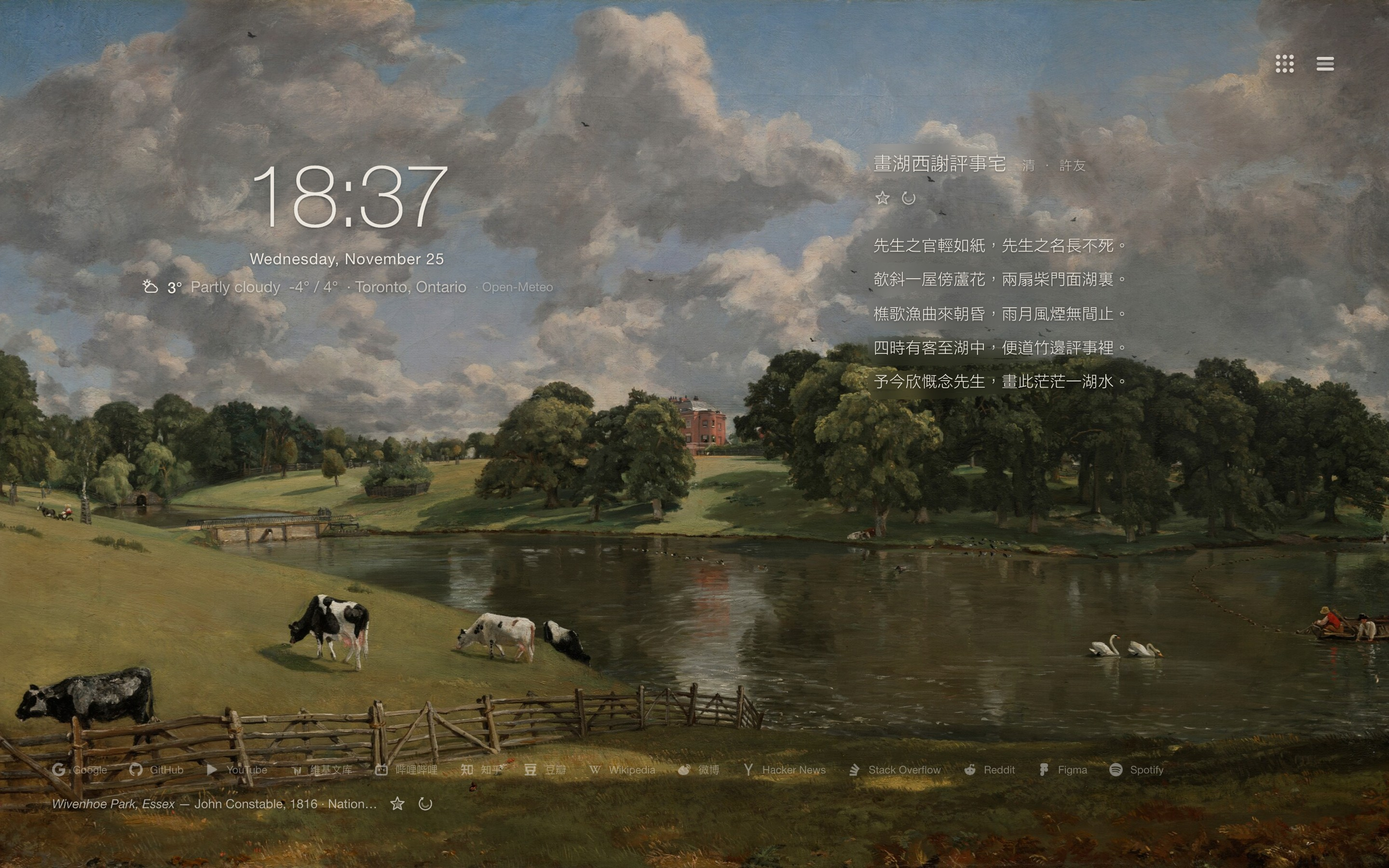
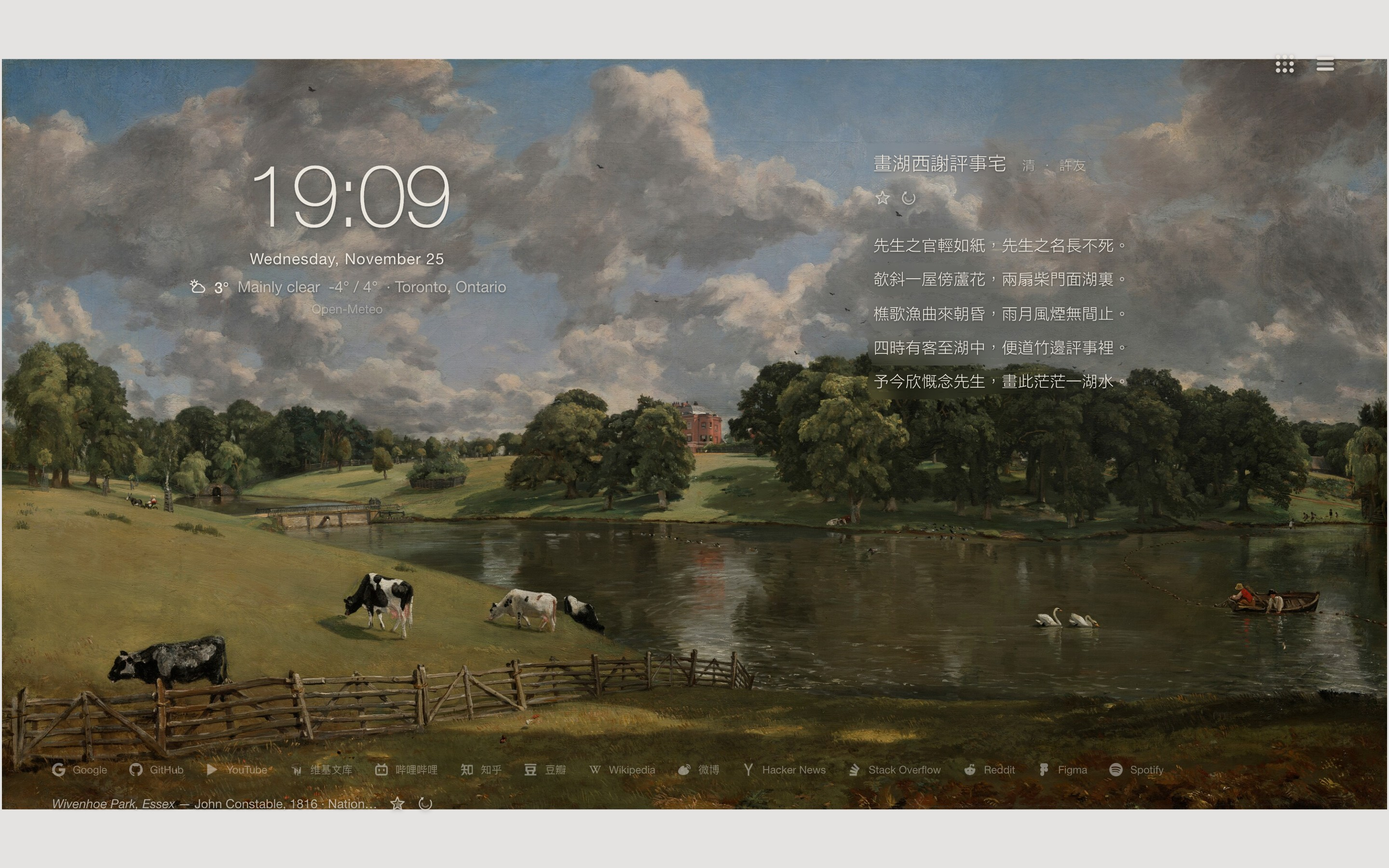
Show the wallpaper whole at screen size, keep favorites in one English folder, and simplify the weather line

diff --git a/newtab.js b/newtab.js
@@ -24,7 +24,7 @@ const I18N = {
     countries: { US: '美国', FR: '法国', IT: '意大利', NL: '荷兰', GB: '英国', FL: '佛兰德', ES: '西班牙', DE: '德国',
       AT: '奥地利', JP: '日本', CN: '中国', IN: '印度', KR: '朝鲜半岛', OTHER: '其他' },
     weatherLabel: '天气，点一下打开设置', noCity: '点这里填城市，显示天气',
-    minsAgo: (place, m) => `${place} · ${m} 分钟前`, weatherFailed: (msg) => `天气取不到：${msg}，刷新页面再试`,
+    weatherFailed: (msg) => `天气取不到：${msg}，刷新页面再试`,
     wTimeout: '天气服务 10 秒没有响应', wOffline: '连不上天气服务（没联网？）', wHttp: (s) => `天气服务返回 HTTP ${s}`,
     looking: '正在查找……', notFound: (name) => `找不到「${name}」，换个写法试试`, tryLater: (msg) => `${msg}，稍后再试`,
     museums: { aic: '芝加哥艺术博物馆', cma: '克利夫兰艺术博物馆', nga: '华盛顿国家美术馆' },
@@ -39,7 +39,7 @@ const I18N = {
     wsError: (info) => `维基文库报错：${info}`,
     favAdd: (art) => (art ? '收藏这幅画' : '收藏这一篇'), favRemove: (art) => (art ? '取消收藏这幅画' : '取消收藏这一篇'),
     favFailed: (why) => `没有存成：${why}。再点一次星号重试。`,
-    favFolder: '新标签页收藏', favPoems: '诗文', favArt: '画作', anonymous: '佚名', untitled: '未命名',
+    anonymous: '佚名', untitled: '未命名',
     line: (label, value) => `${label}：${value}`, source: '原文', image: '图片', savedOn: (d) => `收藏于 ${d}`,
     dlTimeout: '下载两分钟还没完成，网络可能太慢', dlNoSpace: '磁盘空间不够', dlFile: (c) => `文件写不进「下载」文件夹（${c}）`,
     dlNetwork: (c) => `下载时网络出错，可能是没联网（${c}）`, dlServer: (c) => `博物馆的图片服务器出错（${c}）`,
@@ -55,7 +55,7 @@ const I18N = {
     countries: { US: 'United States', FR: 'France', IT: 'Italy', NL: 'Netherlands', GB: 'Britain', FL: 'Flanders',
       ES: 'Spain', DE: 'Germany', AT: 'Austria', JP: 'Japan', CN: 'China', IN: 'India', KR: 'Korea', OTHER: 'Other' },
     weatherLabel: 'Weather; click to open the settings', noCity: 'Click here to set a city for the weather',
-    minsAgo: (place, m) => `${place} · ${m} min ago`, weatherFailed: (msg) => `No weather: ${msg}. Reload to try again.`,
+    weatherFailed: (msg) => `No weather: ${msg}. Reload to try again.`,
     wTimeout: 'The weather service did not answer in 10 seconds', wOffline: 'Cannot reach the weather service (offline?)',
     wHttp: (s) => `The weather service returned HTTP ${s}`,
     looking: 'Looking up…', notFound: (name) => `No place called “${name}”; try another spelling`,
@@ -74,7 +74,7 @@ const I18N = {
     favAdd: (art) => (art ? 'Save this painting' : 'Save this text'),
     favRemove: (art) => (art ? 'Remove this painting from favourites' : 'Remove this text from favourites'),
     favFailed: (why) => `Not saved: ${why}. Click the star to try again.`,
-    favFolder: 'New Tab Favorites', favPoems: 'Texts', favArt: 'Paintings', anonymous: 'Anonymous', untitled: 'Untitled',
+    anonymous: 'Anonymous', untitled: 'Untitled',
     line: (label, value) => `${label}: ${value}`, source: 'Source', image: 'Image', savedOn: (d) => `Saved on ${d}`,
     dlTimeout: 'the download did not finish in two minutes', dlNoSpace: 'the disk is full',
     dlFile: (c) => `the file could not be written to Downloads (${c})`, dlNetwork: (c) => `the network failed, maybe offline (${c})`,
@@ -344,8 +344,7 @@ async function loadWeather(force = false) {
     renderWeather(data, city);
   } catch (e) {
     console.warn('Weather failed:', e);
-    if (usable) $('#weather-city').textContent = t('minsAgo', placeName(city), Math.round((Date.now() - cached.at) / 60000));
-    else showWeatherText(t('weatherFailed', e.message));
+    if (!usable) showWeatherText(t('weatherFailed', e.message)); // otherwise the cached weather stays as it is
   }
 }
 
@@ -426,6 +425,7 @@ async function showNextArt() {
     }
     artShown = true;
     document.documentElement.style.setProperty('--art-url', `url("${img.currentSrc}")`); // background of both cards
+    fitArt();
     img.classList.add('shown');
     applyTones();
     rememberLoaded(trying);
@@ -890,21 +890,40 @@ function blockRects() {
   ];
 }
 
-// Mean luma of the painting (object-fit: cover, centred) under a viewport rectangle, on a 6 x 6 lattice.
+// The painting keeps the size it has on the whole screen, shown whole and centred: resizing the window shows more or
+// less of it instead of scaling it, and where it does not reach, the page colour (--page-bg) shows.
+function artBox(ratio) {
+  const [sw, sh] = [screen.width, screen.height];
+  return ratio > sw / sh ? [sw, sw / ratio] : [sh * ratio, sh];
+}
+
+function fitArt() {
+  if (!currentArt) return;
+  const [w, h] = artBox(currentArt.r);
+  document.documentElement.style.setProperty('--art-w', `${w}px`);
+  document.documentElement.style.setProperty('--art-h', `${h}px`);
+}
+
+const pageLuma = () => {
+  const [r, g, b] = getComputedStyle(document.body).backgroundColor.match(/\d+/g).map(Number);
+  return 0.299 * r + 0.587 * g + 0.114 * b;
+};
+
+// Mean luma under a viewport rectangle, on a 6 x 6 lattice: the painting where it is (centred, size from artBox),
+// the page colour elsewhere or when no painting is shown.
 function lumaUnder(rect, grid, ratio) {
-  const W = innerWidth;
-  const H = innerHeight;
-  const [iw, ih] = ratio > W / H ? [H * ratio, H] : [W, W / ratio];
-  const ox = (W - iw) / 2;
-  const oy = (H - ih) / 2;
+  const page = pageLuma();
+  if (!grid) return page * VEIL;
+  const [iw, ih] = artBox(ratio);
+  const ox = (innerWidth - iw) / 2;
+  const oy = (innerHeight - ih) / 2;
   let sum = 0;
   for (let i = 0; i < 6; i++) {
     for (let j = 0; j < 6; j++) {
-      const x = rect.left + (rect.right - rect.left) * (i + 0.5) / 6;
-      const y = rect.top + (rect.bottom - rect.top) * (j + 0.5) / 6;
-      const col = Math.min(GRID_W - 1, Math.max(0, Math.floor(((x - ox) / iw) * GRID_W)));
-      const row = Math.min(GRID_H - 1, Math.max(0, Math.floor(((y - oy) / ih) * GRID_H)));
-      sum += parseInt(grid[row * GRID_W + col], 16) * 16 + 8;
+      const u = (rect.left + (rect.right - rect.left) * (i + 0.5) / 6 - ox) / iw;
+      const v = (rect.top + (rect.bottom - rect.top) * (j + 0.5) / 6 - oy) / ih;
+      if (!(u >= 0 && u < 1 && v >= 0 && v < 1)) sum += page;
+      else sum += parseInt(grid[Math.floor(v * GRID_H) * GRID_W + Math.floor(u * GRID_W)], 16) * 16 + 8;
     }
   }
   return (sum / 36) * VEIL;
@@ -914,7 +933,7 @@ function applyTones() {
   const a = artShown ? currentArt : null;
   const grid = a?.l?.length === GRID_W * GRID_H ? a.l : null;
   for (const [el, rect] of blockRects()) {
-    if (grid && rect && lumaUnder(rect, grid, a.r) > DARK_TEXT_ABOVE) el.dataset.tone = 'dark';
+    if (rect && lumaUnder(rect, grid, a?.r) > DARK_TEXT_ABOVE) el.dataset.tone = 'dark';
     else delete el.dataset.tone;
   }
 }
@@ -1023,7 +1042,8 @@ function brushSvg(boxW, boxH, seed) {
 }
 
 // ---------- favourites ----------
-// Saved as files under Downloads/<favFolder>/<favPoems|favArt>. The stored list ({ poems, art }, newest first) keeps
+// Saved as files under Downloads/New Tab Favorites/Texts|Paintings, in English whatever the interface language, so a
+// language switch does not start a second folder. The stored list ({ poems, art }, newest first) keeps
 // each page URL ("id") and download ids ("files") so un-starring deletes the files; an entry is added only once all
 // its downloads have finished.
 const favBusy = new Set(); // ids whose files are being saved or deleted
@@ -1071,7 +1091,7 @@ async function saveFiles(kind, files) {
     for (const f of files) {
       ids.push(await chrome.downloads.download({
         url: f.url || `data:text/markdown;charset=utf-8,${encodeURIComponent(f.text)}`,
-        filename: `${t('favFolder')}/${t(kind === 'art' ? 'favArt' : 'favPoems')}/${f.name}`,
+        filename: `New Tab Favorites/${kind === 'art' ? 'Paintings' : 'Texts'}/${f.name}`,
         conflictAction: 'uniquify', saveAs: false,
       }));
     }
@@ -1187,12 +1207,9 @@ $('#art-fav').addEventListener('click', () => {
   const a = currentArt;
   if (a) toggleFav($('#art-fav'), 'art', a.u, () => artFiles(a));
 });
-// The weather line opens the settings; the Open-Meteo credit inside it is a plain link.
-$('#weather').addEventListener('click', (e) => {
-  if (!e.target.closest('#weather-source')) openSettings(true, true);
-});
+$('#weather').addEventListener('click', () => openSettings(true, true));
 $('#weather').addEventListener('keydown', (e) => {
-  if (e.target === e.currentTarget && (e.key === 'Enter' || e.key === ' ')) {
+  if (e.key === 'Enter' || e.key === ' ') {
     e.preventDefault();
     openSettings(true, true);
   }
@@ -1232,7 +1249,7 @@ chrome.storage.onChanged.addListener((changes, area) => {
     settingsChanged(old);
   }
 });
-window.addEventListener('resize', () => requestAnimationFrame(() => { layoutVerse(); fitSites(); }));
+window.addEventListener('resize', () => requestAnimationFrame(() => { fitArt(); layoutVerse(); fitSites(); })); // fitArt: another screen
 
 (async () => {
   settings = { ...SETTINGS_DEFAULT, ...(await store.get('settings', {})) };

diff --git a/newtab.css b/newtab.css
@@ -3,6 +3,7 @@
   --ink-dim: rgba(236, 231, 222, 0.68);
   --shadow-text: 0 1px 2px rgba(0, 0, 0, 0.35), 0 0 16px rgba(0, 0, 0, 0.22);
   --veil: rgba(0, 0, 0, 0.1); /* VEIL in newtab.js */
+  --page-bg: #fefdfa; /* around the painting; under the 10% veil it shows as light grey (#e5e4e1), grey-black in dark mode */
   /* Sizes follow the window height, from a MacBook window (~844px) to a 5K screen (~1330px). */
   --fs-small: clamp(13px, 1.2vh, 14px);
   --fs-body: clamp(16px, 1.45vh, 18px);
@@ -31,11 +32,13 @@
   text-shadow: var(--shadow-text);
 }
 
+@media (prefers-color-scheme: dark) { :root { --page-bg: #222120; } } /* shows as #1e1d1c */
+
 html, body {
   height: 100%;
   margin: 0;
   overflow: hidden;
-  background: #141311;
+  background: var(--page-bg);
   color: var(--ink);
   font-family: var(--ui-font);
   -webkit-font-smoothing: antialiased;
@@ -47,10 +50,12 @@ button { font: inherit; color: inherit; cursor: pointer; }
 /* ---------- wallpaper ---------- */
 #art {
   position: fixed;
-  inset: 0;
-  width: 100%;
-  height: 100%;
-  object-fit: cover;
+  left: 50%;
+  top: 50%;
+  width: var(--art-w, 100%); /* set by fitArt in newtab.js */
+  height: var(--art-h, 100%);
+  transform: translate(-50%, -50%);
+  object-fit: contain;
   opacity: 0;
   transition: opacity 0.5s ease;
 }
@@ -197,10 +202,9 @@ body::after { content: ""; position: fixed; inset: 0; background: var(--veil); p
 #weather-text, #weather-range, #weather-city { color: var(--ink-dim); }
 #weather-city:not(:empty)::before { content: "· "; }
 #weather:hover #weather-city, #weather:hover #weather-text { color: var(--ink); }
-#weather-source { font-size: var(--fs-small); color: var(--ink-dim); opacity: 0.6; text-decoration: none; }
-#weather-source::before { content: "· "; }
+#weather-source { margin-top: 0.5em; font-size: var(--fs-small); color: var(--ink-dim); opacity: 0.6; text-decoration: none; }
 #weather-source:hover { opacity: 1; }
-#weather-city:empty ~ #weather-source { display: none; } /* only next to weather data */
+#weather:has(#weather-city:empty) + #weather-source { display: none; } /* only under weather data */
 
 /* ---------- classical text ---------- */
 #verse {
@@ -303,9 +307,10 @@ body::after { content: ""; position: fixed; inset: 0; background: var(--veil); p
   border-radius: 16px;
   box-shadow: 0 18px 60px rgba(0, 0, 0, 0.35);
   color: var(--ink);
-  background-color: #141311;
+  background-color: var(--page-bg);
   background-image: linear-gradient(var(--veil), var(--veil)), var(--art-url, none);
-  background-size: auto, cover;
+  background-size: auto, var(--art-w, 100%) var(--art-h, 100%);
+  background-repeat: no-repeat;
   background-position: center;
   background-attachment: scroll, fixed;
   font-size: 13.5px;

diff --git a/newtab.html b/newtab.html
@@ -26,9 +26,9 @@
           <span id="weather-text"></span>
           <span id="weather-range"></span>
           <span id="weather-city"></span>
-          <!-- Open-Meteo's licence asks for a link next to its data. -->
-          <a id="weather-source" href="https://open-meteo.com/" target="_blank" rel="noopener">Open-Meteo</a>
         </div>
+        <!-- Open-Meteo's licence asks for a link next to its data. -->
+        <a id="weather-source" href="https://open-meteo.com/" target="_blank" rel="noopener">Open-Meteo</a>
       </div>
     </section>
 

diff --git a/README.zh-CN.md b/README.zh-CN.md
@@ -13,7 +13,7 @@ Chrome 新标签页：公版名画和古诗文。
 1. 下载这个仓库并解压。
 2. 打开 `chrome://extensions`，打开「开发者模式」，点「加载已解压的扩展程序」，选这个文件夹。
 
-点星号收藏的画和诗文存在「下载」文件夹的 `新标签页收藏/`；取消收藏会删掉文件。
+点星号收藏的画和诗文存在「下载」文件夹的 `New Tab Favorites/`；取消收藏会删掉文件。
 
 ## 权限
 
